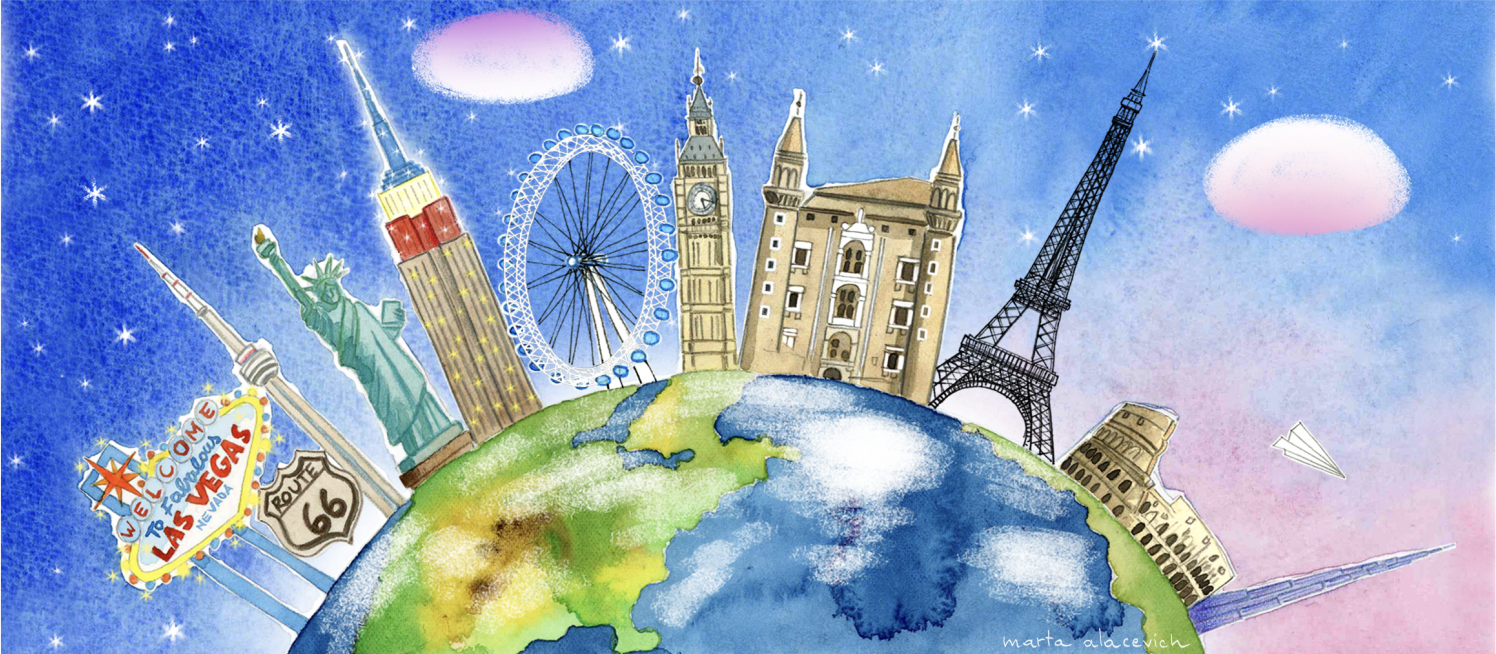
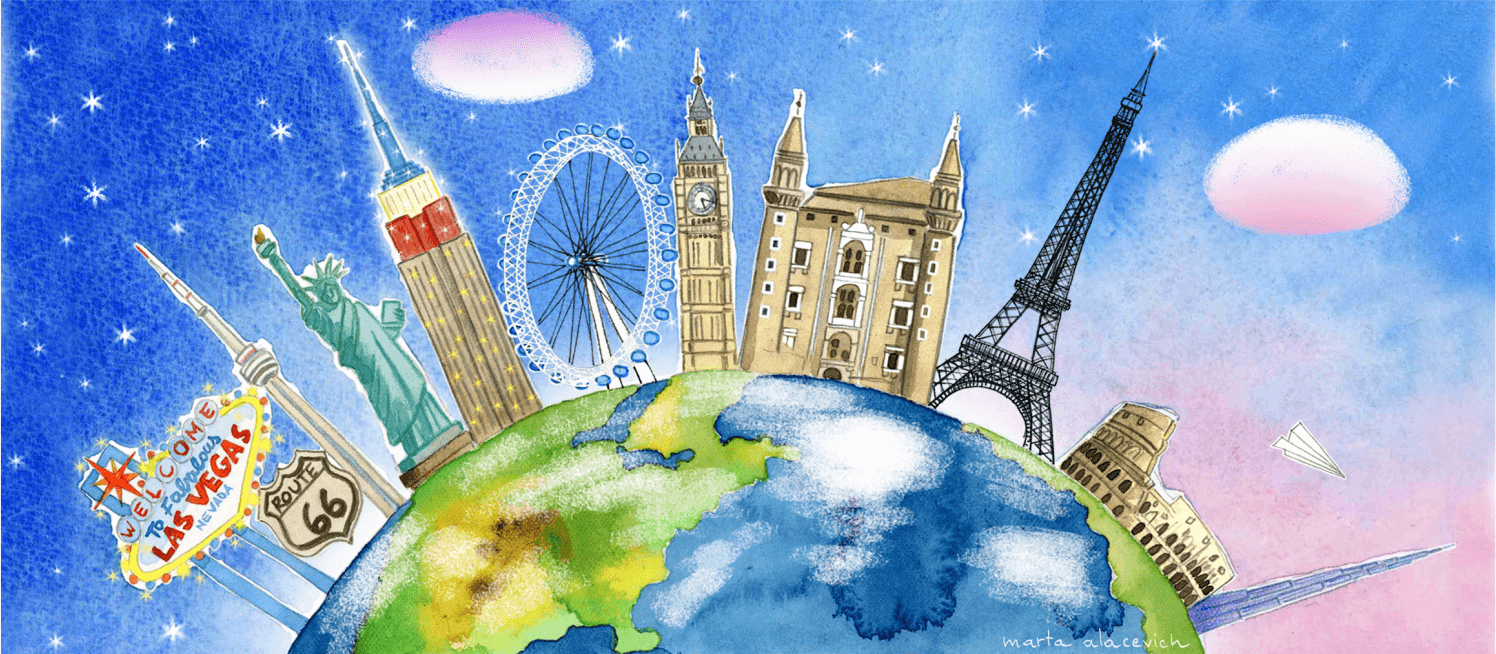
optimised images

diff --git a/myweddingapp/src/data/pagesData.js b/myweddingapp/src/data/pagesData.js
@@ -17,7 +17,7 @@ export const pages =
                 subtitle: "We can’t wait  to share our special <br/> day with you.",
                 pageTitleTextColor: 'white',
                 // gif: Airplane,
-                imageUrl: 'https://res.cloudinary.com/de2x5mgq7/image/upload/v1668270990/home_qadol9.jpg',
+                imageUrl: 'https://res.cloudinary.com/de2x5mgq7/image/upload/v1672751907/home_qadol9_yp9mfd.jpg',
             }, 
             sectionContent: {
                 showDesktopOnly: false,
@@ -32,7 +32,7 @@ export const pages =
                 title: "Save the date",
                 subtitle: "Sabato 8 Luglio 2023",
                 pageTitleTextColor: 'white',
-                imageUrl: "https://res.cloudinary.com/de2x5mgq7/image/upload/v1668271433/IMG-20220617-WA0013_swbasa.jpg"
+                imageUrl: "https://res.cloudinary.com/de2x5mgq7/image/upload/v1672751907/IMG-20220617-WA0013_swbasa_t9jnhm.jpg"
             }, 
             sectionContent: {
                 showDesktopOnly: false,
@@ -47,7 +47,7 @@ export const pages =
                 title: "The wedding",
                 subtitle: "",
                 pageTitleTextColor: 'white',
-                imageUrl: "https://res.cloudinary.com/de2x5mgq7/image/upload/v1668270990/timeline_mytswh.jpg"
+                imageUrl: "https://res.cloudinary.com/de2x5mgq7/image/upload/v1672751907/timeline_mytswh_d4ff8h.jpg"
             }, 
             sectionContent: {
                 showDesktopOnly: false,
@@ -62,7 +62,7 @@ export const pages =
                 title: "To our next adventure...",
                 subtitle: "",
                 pageTitleTextColor: 'white',
-                imageUrl: "https://res.cloudinary.com/de2x5mgq7/image/upload/v1668270990/gift_ove5ti.jpg"
+                imageUrl: "https://res.cloudinary.com/de2x5mgq7/image/upload/v1672751907/gift_ove5ti_dkmqe5.jpg"
             }, 
             sectionContent: {
                 showDesktopOnly: false,
@@ -77,7 +77,7 @@ export const pages =
                 title: "We'd love to have <br/> you with us!",
                 subtitle: "Sabato 8 Luglio 2023",
                 pageTitleTextColor: 'white',
-                imageUrl: "https://res.cloudinary.com/de2x5mgq7/image/upload/v1668270990/rsvp_wybdkf.jpg"
+                imageUrl: "https://res.cloudinary.com/de2x5mgq7/image/upload/v1672751907/rsvp_wybdkf_l0paoc.jpg"
             }, 
             sectionContent: {
                 showDesktopOnly: false,
@@ -92,7 +92,7 @@ export const pages =
                 title: "Urbino",
                 subtitle: "Sabato 8 Luglio 2023",
                 pageTitleTextColor: 'white',
-                imageUrl: "https://res.cloudinary.com/de2x5mgq7/image/upload/v1668270990/urbino_twlusw.jpg"
+                imageUrl: "https://res.cloudinary.com/de2x5mgq7/image/upload/v1672751907/urbino_twlusw_ujwsre.jpg"
             }, 
             sectionContent: {
                 showDesktopOnly: false,
@@ -110,7 +110,7 @@ export const pages =
                 subtitle: "We can’t wait  to share our special <br/> day with you.",
                 pageTitleTextColor: 'white',
                 // gif: Airplane,
-                imageUrl: 'https://res.cloudinary.com/de2x5mgq7/image/upload/v1668270990/home_qadol9.jpg',
+                imageUrl: 'https://res.cloudinary.com/de2x5mgq7/image/upload/v1672751907/home_qadol9_yp9mfd.jpg',
             }, 
             sectionContent: {
                 showDesktopOnly: false,
@@ -125,7 +125,7 @@ export const pages =
                 title: "Save the date",
                 subtitle: "Saturday 8th July 2023",
                 pageTitleTextColor: 'white',
-                imageUrl: "https://res.cloudinary.com/de2x5mgq7/image/upload/v1668271433/IMG-20220617-WA0013_swbasa.jpg"
+                imageUrl: "https://res.cloudinary.com/de2x5mgq7/image/upload/v1672751907/IMG-20220617-WA0013_swbasa_t9jnhm.jpg"
             }, 
             sectionContent: {
                 showDesktopOnly: false,
@@ -140,7 +140,7 @@ export const pages =
                 title: "The wedding",
                 subtitle: "",
                 pageTitleTextColor: 'white',
-                imageUrl: "https://res.cloudinary.com/de2x5mgq7/image/upload/v1668270990/timeline_mytswh.jpg"
+                imageUrl: "https://res.cloudinary.com/de2x5mgq7/image/upload/v1672751907/timeline_mytswh_d4ff8h.jpg"
             }, 
             sectionContent: {
                 showDesktopOnly: false,
@@ -155,7 +155,7 @@ export const pages =
                 title: "To our next adventure...",
                 subtitle: "",
                 pageTitleTextColor: 'white',
-                imageUrl: "https://res.cloudinary.com/de2x5mgq7/image/upload/v1668270990/gift_ove5ti.jpg"
+                imageUrl: "https://res.cloudinary.com/de2x5mgq7/image/upload/v1672751907/gift_ove5ti_dkmqe5.jpg"
             }, 
             sectionContent: {
                 showDesktopOnly: false,
@@ -170,7 +170,7 @@ export const pages =
                 title: "We'd love to have <br/> you with us!",
                 subtitle: "Saturday 8th July 2023",
                 pageTitleTextColor: 'white',
-                imageUrl: "https://res.cloudinary.com/de2x5mgq7/image/upload/v1668270990/rsvp_wybdkf.jpg"
+                imageUrl: "https://res.cloudinary.com/de2x5mgq7/image/upload/v1672751907/rsvp_wybdkf_l0paoc.jpg"
             }, 
             sectionContent: {
                 showDesktopOnly: false,
@@ -185,7 +185,7 @@ export const pages =
                 title: "Urbino",
                 subtitle: "Saturday 8th July 2023",
                 pageTitleTextColor: 'white',
-                imageUrl: "https://res.cloudinary.com/de2x5mgq7/image/upload/v1668270990/urbino_twlusw.jpg"
+                imageUrl: "https://res.cloudinary.com/de2x5mgq7/image/upload/v1672751907/urbino_twlusw_ujwsre.jpg"
             }, 
             sectionContent: {
                 showDesktopOnly: false,
